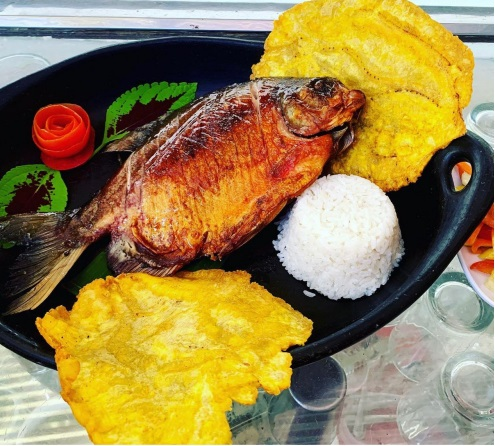
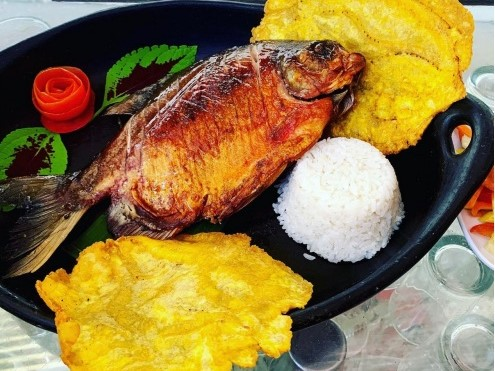
Redimencione imagenes y mejore title

diff --git a/src/pictures/menu/menu.js b/src/pictures/menu/menu.js
@@ -1,19 +1,88 @@
-import CachamaSudada from './CachamaSudada.png'
-import Mojarra from './Mojarra.png'
-import MojarraAsada from './MojarraAsada.png'
+import CachamaSudada from './CachamaSudada.jpg'
+import Mojarra from './Mojarra.jpg'
+import MojarraAsada from './MojarraAsada.jpg'
 import Mojarrita from './Mojarrita.jpg'
-export default[
-    {
-        "img":Mojarra
-    },
-    {
-        "img":MojarraAsada
-    },
-    {
-        "img":Mojarrita
-    },
-    {
-        "img":CachamaSudada
-    }
+import BagreSalsa from './BagreSalsa.jpg'
+import RobaloMarinero from './RobaloMarinero.jpg'
+import Cazuela from './Cazuela.jpg'
+import PechugaPlancha from './PechugaPlancha.jpg'
+import CostillasBBq from './CostillasBBq.jpg'
+import Churrasco from './Churrasco.jpg'
 
+
+export default [
+    {
+        "img": Mojarra,
+        "principal": "Mojarra de 500g",
+        "acompañamiento": "arroz, ensalada y dos patacones",
+        "bebida": "Vaso de agua de limonada",
+        "precio": 25000
+
+    },
+    {
+        "img": MojarraAsada,
+        "principal": "Mojarra asada o frita",
+        "acompañamiento": "arroz, ensalada y dos patacones",
+        "bebida": "Vaso de agua de limonada",
+        "precio": 25000
+    },
+    {
+        "img": Mojarrita,
+        "principal": "Cachama asada o frita",
+        "acompañamiento": "arroz, ensalada y dos patacones",
+        "bebida": "Vaso de agua de limonada",
+        "precio": 25000
+
+    },
+    {
+        "img": CachamaSudada,
+        "principal": "Mojarra o cachama bañados en salsa criolla",
+        "acompañamiento": "arroz, ensalada y dos patacones",
+        "bebida": "Vaso de limonada",
+        "precio": 25000
+    },
+    {
+        "img": BagreSalsa,
+        "principal": "500 gramos de bagre bañados en salsa de la casa",
+        "acompañamiento": "arroz, ensalada y dos patacones",
+        "bebida": "Vaso de  limonada",
+        "precio": 25000
+    },
+    {
+        "img": Cazuela,
+        "principal": "Cazuela",
+        "acompañamiento": "arroz, ensalada y dos patacones",
+        "bebida": "Vaso de  limonada",
+        "precio": 25000
+    },
+    {
+        "img": RobaloMarinero,
+        "principal": "Robalo Marinero",
+        "acompañamiento": "arroz, ensalada y dos patacones",
+        "bebida": "Vaso de  limonada",
+        "precio": 35000
+    },
+    {
+        "img": PechugaPlancha,
+        "principal": "Robalo Marinero",
+        "acompañamiento": "arroz, ensalada y dos patacones",
+        "bebida": "Vaso de  limonada",
+        "precio": 35000
+
+    },
+    {
+        "img": CostillasBBq,
+        "principal": "Robalo Marinero",
+        "acompañamiento": "arroz, ensalada y dos patacones",
+        "bebida": "Vaso de  limonada",
+        "precio": 35000
+    },
+    {
+        "img": Churrasco,
+        "principal": "Robalo Marinero",
+        "acompañamiento": "arroz, ensalada y dos patacones",
+        "bebida": "Vaso de  limonada",
+        "precio": 35000
+
+    }
 ]

diff --git a/src/pages/Menu.js b/src/pages/Menu.js
@@ -2,25 +2,21 @@ import React from 'react'
 import { Card, ListGroup, ListGroupItem } from 'react-bootstrap'
 import menu from '../pictures/menu/menu'
 const Menu = () => {
-   const renderMenu = menu.map(({img}) =>(
-    <Card style={{ width: '18rem', display:'inline-flex', marginTop:"5px", alignItems:"center"}}>
+   const renderMenu = menu.map(({img, principal, precio, acompañamiento, bebida}) =>(
+    <Card style={navStyle}>
     <Card.Img variant="top" src={img} />
     <Card.Body>
-      <Card.Title>Card Title</Card.Title>
+      <Card.Title>{principal}</Card.Title>
       <Card.Text>
-        Some quick example text to build on the card title and make up the bulk of
-        the card's content.
+        Acompañamientos: {acompañamiento}
       </Card.Text>
     </Card.Body>
-    <ListGroup className="list-group-flush">
-      <ListGroupItem>Cras justo odio</ListGroupItem>
-      <ListGroupItem>Dapibus ac facilisis in</ListGroupItem>
-      <ListGroupItem>Vestibulum at eros</ListGroupItem>
+    <ListGroup className="list-group-flush" style={{marginLeft:"5px"}}>
+      <ListGroupItem>Bebida: {bebida}</ListGroupItem>
+      <ListGroupItem>Precio: {precio}</ListGroupItem>
+      
     </ListGroup>
-    <Card.Body>
-      <Card.Link href="#">Card Link</Card.Link>
-      <Card.Link href="#">Another Link</Card.Link>
-    </Card.Body>
+    
   </Card>
    ))
     return (
@@ -29,6 +25,16 @@ const Menu = () => {
             {renderMenu}
         </div>
     )
+}
+
+const navStyle = { 
+  width:"10cm", 
+  high:"10cm", 
+  display:'inline-flex', 
+  margin:"5px", 
+  alignItems:"center", 
+  textAlign:"justify"
+
 }
 
 export default Menu

diff --git a/src/components/NavigationBar.js b/src/components/NavigationBar.js
@@ -9,7 +9,7 @@ const NavigationBar = () => {
                 <Container>
                     <Navbar.Brand><Link to='/' className=''>Inicio</Link></Navbar.Brand>
                     <Navbar.Toggle aria-controls="basic-navbar-nav" />
-                    <Navbar.Collapse id="basic-navbar-nav">
+                    <Navbar.Collapse id="basic-navbar-nav" style={{backgroundColor:"rgb(117, 17, 53)"}}>
                         <Nav className="me-auto">
                             <Nav.Link variant="secondary"><Link to='/Menu'>Menu</Link></Nav.Link>
                             <Nav.Link><Link to='/Servicio'>Servicios</Link></Nav.Link>

diff --git a/src/components/Layout.js b/src/components/Layout.js
@@ -4,6 +4,7 @@ import NavigationBar from './NavigationBar'
 const Layouts = () => {
     return (
         <div>
+            <h1 style={{fontSize:'60px'}}>Centro Ecoturistico Canaima</h1>
             <NavigationBar/>
         </div>
     )

diff --git a/src/App.js b/src/App.js
@@ -6,7 +6,7 @@ import Rutas from './routes/Route';
 function App() {
   return (
     <div className="App">
-      <h1>canaima</h1>
+  
       <Rutas/>
       
     </div>

diff --git a/src/App.css b/src/App.css
@@ -2,6 +2,9 @@
   background-color: rgb(117, 17, 53);
   background-position: initial;
 }
+h1{
+  color: white;
+}
 nav{
   background-color: rgb(117, 17, 53) ;
 }
